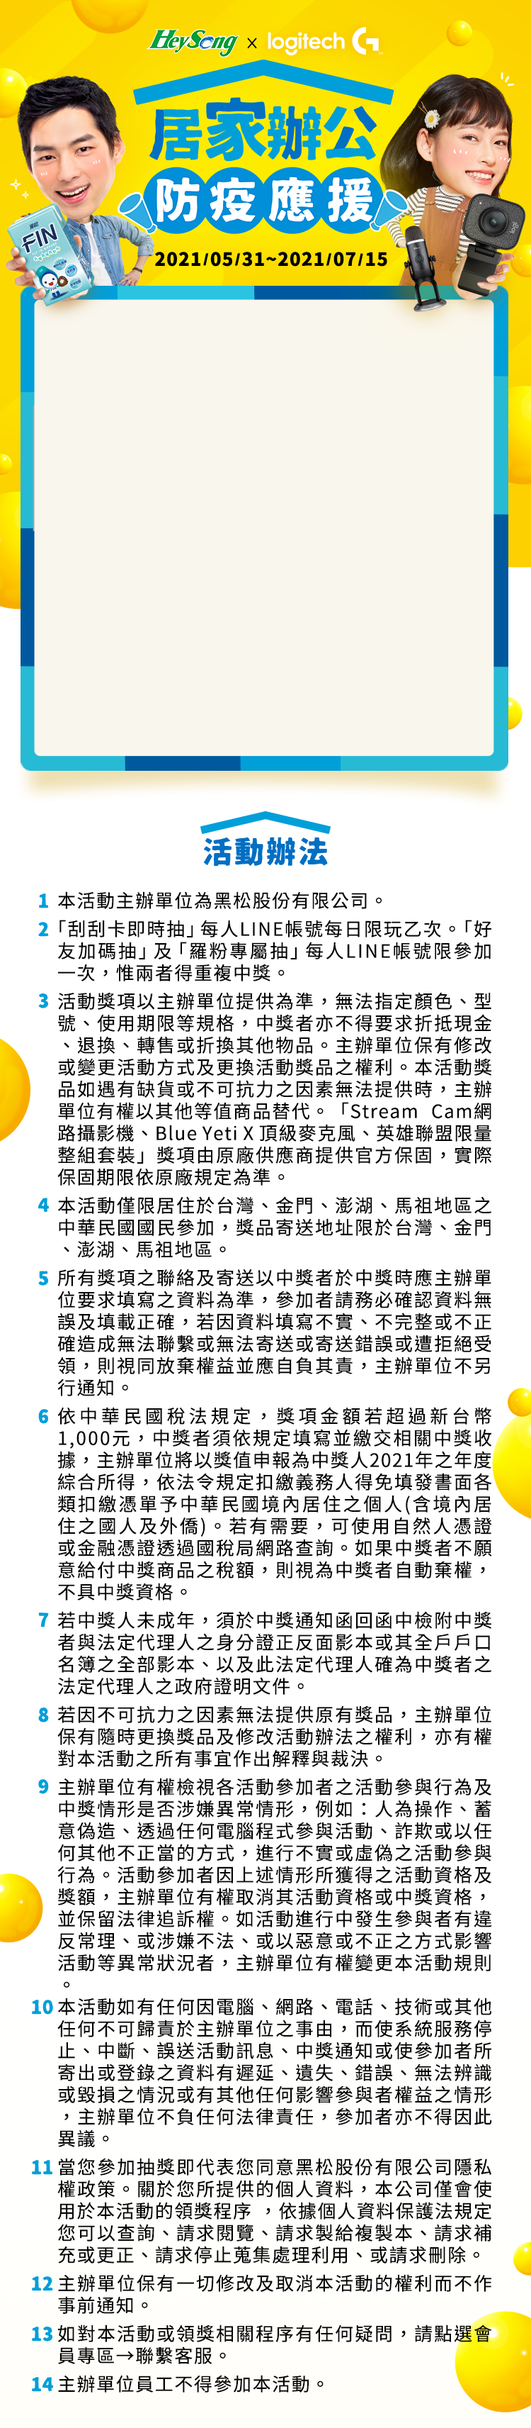
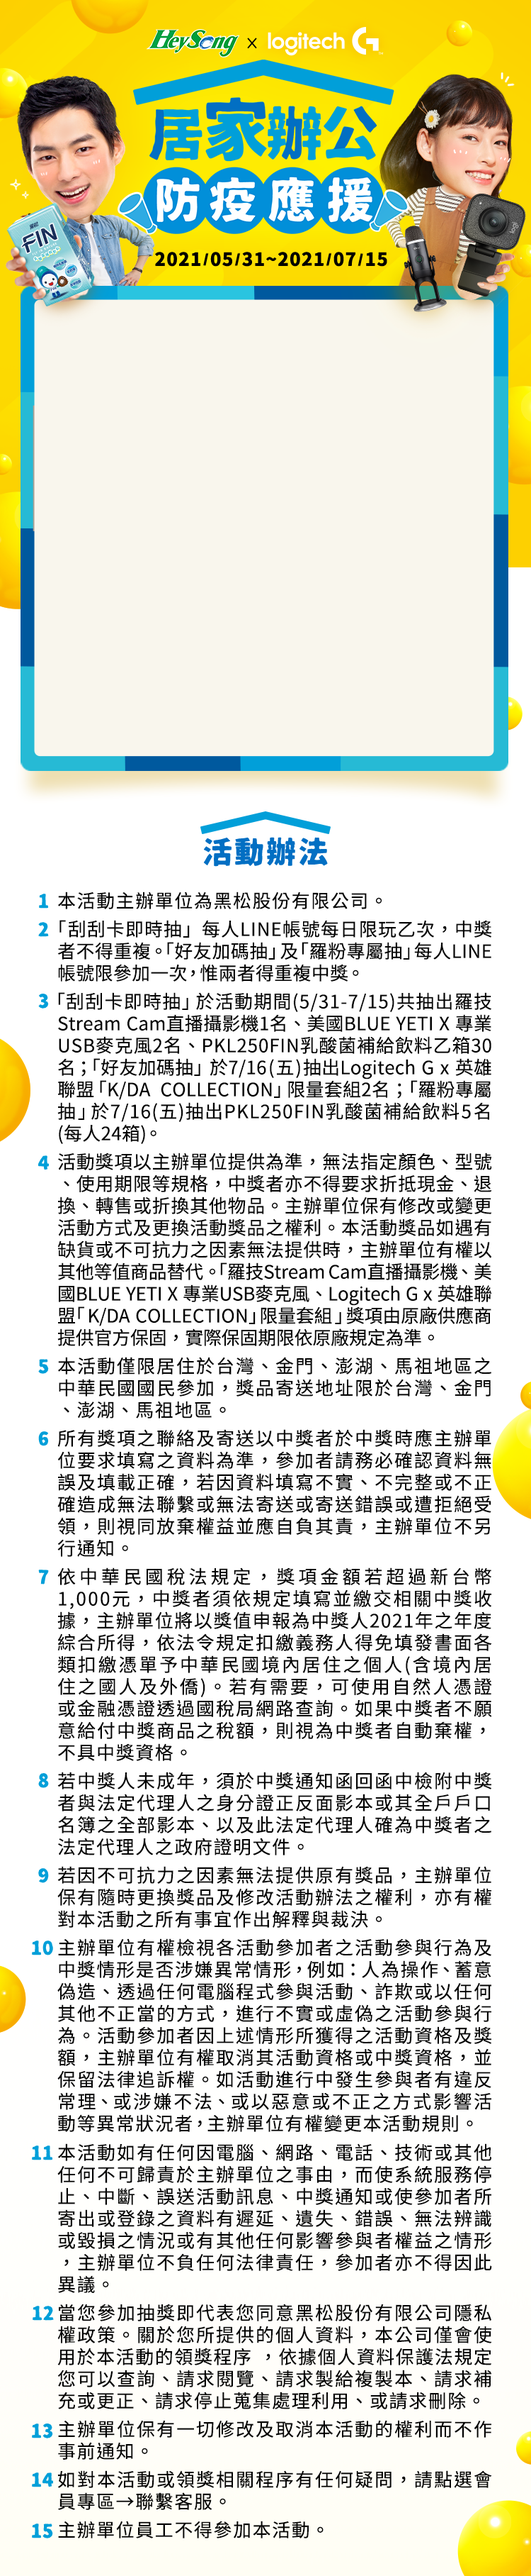
'0531'

diff --git a/templates/heysongScratchForm.html b/templates/heysongScratchForm.html
@@ -33,6 +33,11 @@
                         <label style="font-family:Notobold;">獲得{{prize}}</label>
                     </div>
                 </div>
+                <div class="form_group">
+                    <div>
+                        <b><label style="font-family:Notobold;">邀請一位好友加入黑松LINE加碼抽<br>Logitech G x 英雄聯盟「K/DA COLLECTION」限量套組(含鍵盤、滑鼠、耳機)</label></b>
+                    </div>
+                </div>
             </center>
             {% csrf_token %}
             <div class="form_group">

diff --git a/static/css/HeysongScratchForm.css b/static/css/HeysongScratchForm.css
@@ -64,7 +64,7 @@ strong {
 
 .container {
     width: 700px;
-    height: 880px;
+    height: 990px;
     margin-left: auto;
     margin-right: auto;
     overflow: visible;

diff --git a/static/css/HeysongScratchformDone.css b/static/css/HeysongScratchformDone.css
@@ -64,7 +64,7 @@ strong {
 
 .container {
     width: 700px;
-    height: 730px;
+    height: 800px;
     margin-left: auto;
     margin-right: auto;
     overflow: visible;

diff --git a/turntableApp/static/css/HeysongScratchForm.css b/turntableApp/static/css/HeysongScratchForm.css
@@ -64,7 +64,7 @@ strong {
 
 .container {
     width: 700px;
-    height: 880px;
+    height: 990px;
     margin-left: auto;
     margin-right: auto;
     overflow: visible;

diff --git a/turntableApp/static/css/HeysongScratchformDone.css b/turntableApp/static/css/HeysongScratchformDone.css
@@ -64,7 +64,7 @@ strong {
 
 .container {
     width: 700px;
-    height: 730px;
+    height: 800px;
     margin-left: auto;
     margin-right: auto;
     overflow: visible;
